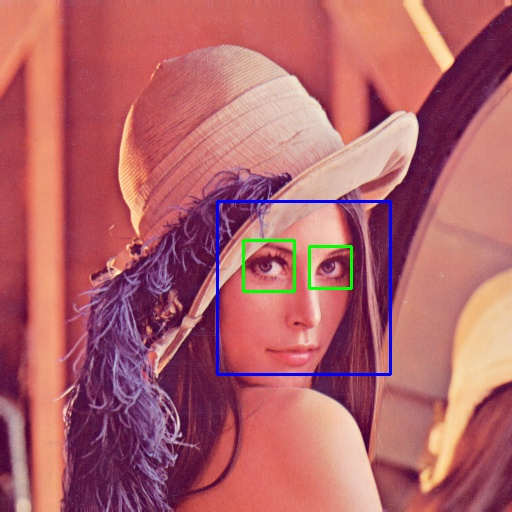
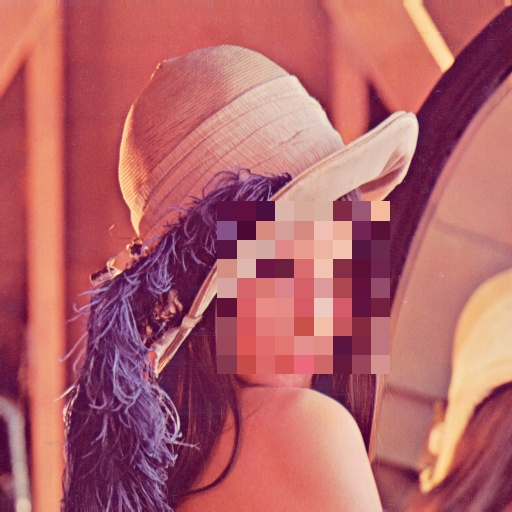
add scraping.py

Changed region(s): [[0.4062, 0.375, 0.7812, 0.75]]

diff --git a/scraping/scraping.py b/scraping/scraping.py
@@ -1,0 +1,103 @@
+import os
+import json
+import urllib
+import argparse
+import requests
+from bs4 import BeautifulSoup
+
+class Google(object):
+    def __init__(self):
+        self.url = "https://www.google.co.jp/search"
+        self.session = requests.session()
+        self.session.headers.update(
+            {
+                "User-Agent": "Mozilla/5.0 (X11; Linux x86_64; rv:10.0) \
+                    Gecko/20100101 Firefox/10.0"
+            }
+        )
+
+    def search(self, keyword, max):
+        print('searching \"{}\"...'.format(keyword))
+        query_generator = self._query_generator(keyword)
+        return self._image_search(query_generator, max)
+
+    def _query_generator(self, keyword):
+        page = 0
+        while page<1:
+            params = urllib.parse.urlencode(
+                {"q": keyword, "tbm": "isch", "ijn": str(page)}
+            )
+            yield self.url + "?" + params
+            page += 1
+
+    def _image_search(self, query_generator, max):
+        results = []
+        total = 0
+        while True:
+            # get url
+            html = self.session.get(next(query_generator)).text
+            soup = BeautifulSoup(html, "lxml")
+            elements = soup.select(".rg_meta.notranslate")
+            jsons = [json.loads(e.get_text()) for e in elements]
+            image_url_list = [js["ou"] for js in jsons]
+
+            # add search results
+            if not len(image_url_list):
+                print("-> No more images")
+                break
+            elif len(image_url_list) > max - total:
+                results += image_url_list[: max - total]
+                break
+            else:
+                results += image_url_list
+                total += len(image_url_list)
+
+        print("-> Found", str(len(results)), "images")
+        return results
+
+
+def input():
+    parser = argparse.ArgumentParser()
+    parser.add_argument("-t", "--target", help="target name", type=str, required=True)
+    parser.add_argument("-n", "--number", help="number of images", type=int, required=True)
+    parser.add_argument("-d", "--directory", help="download location", type=str, default="./imgs")
+    args = parser.parse_args()
+
+    imgs_dir = args.directory
+    target_name = args.target
+    number = args.number
+
+    os.makedirs(imgs_dir, exist_ok=True)
+    os.makedirs(os.path.join(imgs_dir, target_name), exist_ok=True)
+
+    return {'imgs_dir':imgs_dir, 'target_name':target_name, 'number':number}
+
+def download(results,imgs_dir,target_name):
+    download_errors = []
+    for i, url in enumerate(results):
+        print("-> Downloading image", str(i + 1).zfill(4), end=" ")
+        try:
+            urllib.request.urlretrieve(
+                url,
+                os.path.join(imgs_dir, target_name, str(i + 1).zfill(4) + ".jpg"),
+            )
+            print("successful")
+        except BaseException:
+            print("failed")
+            download_errors.append(i + 1)
+            continue
+
+    print("-" * 50)
+    print("Complete downloaded")
+    print("├─ Successful downloaded", len(results) - len(download_errors), "images")
+    print("└─ Failed to download", len(download_errors), "images", *download_errors)
+
+
+def main():
+    input_data = input()
+    google = Google()
+    results = google.search(input_data['target_name'], input_data['number'])
+    download(results,input_data['imgs_dir'],input_data['target_name'])
+
+if __name__ == '__main__':
+    main()

diff --git a/openCV/1/openCV.py b/openCV/1/openCV.py
@@ -1,7 +1,7 @@
 import cv2
 
-face_cascade_path = 'haarcascade_frontalface_default.xml'
-eye_cascade_path = 'haarcascade_eye.xml'
+face_cascade_path = 'haarcascades/haarcascade_frontalface_default.xml'
+eye_cascade_path = 'haarcascades/haarcascade_eye.xml'
 face_cascade = cv2.CascadeClassifier(face_cascade_path)
 eye_cascade = cv2.CascadeClassifier(eye_cascade_path)
 
@@ -9,21 +9,27 @@ src = cv2.imread('lena.jpg')
 src_gray = cv2.cvtColor(src, cv2.COLOR_BGR2GRAY)
 faces = face_cascade.detectMultiScale(src_gray)
 
-
-# 認識
-for x, y, w, h in faces:
-    cv2.rectangle(src, (x, y), (x + w, y + h), (255, 0, 0), 2)
-    face = src[y: y + h, x: x + w]
-    face_gray = src_gray[y: y + h, x: x + w]
-    eyes = eye_cascade.detectMultiScale(face_gray)
-    for (ex, ey, ew, eh) in eyes:
-        cv2.rectangle(face, (ex, ey), (ex + ew, ey + eh), (0, 255, 0), 2)
+# 矩形
+def rectangle():
+    for x, y, w, h in faces:
+        cv2.rectangle(src, (x, y), (x + w, y + h), (255, 0, 0), 2)
+        face = src[y: y + h, x: x + w]
+        face_gray = src_gray[y: y + h, x: x + w]
+        eyes = eye_cascade.detectMultiScale(face_gray)
+        for (ex, ey, ew, eh) in eyes:
+            cv2.rectangle(face, (ex, ey), (ex + ew, ey + eh), (0, 255, 0), 2)
 
 # モザイク
-# ratio = 0.05
-# for x, y, w, h in faces:
-#     small = cv2.resize(src[y: y + h, x: x + w], None, fx=ratio, fy=ratio, interpolation=cv2.INTER_NEAREST)
-#     src[y: y + h, x: x + w] = cv2.resize(small, (w, h), interpolation=cv2.INTER_NEAREST)
+def mosaic():
+    ratio = 0.05
+    for x, y, w, h in faces:
+        small = cv2.resize(src[y: y + h, x: x + w], None, fx=ratio, fy=ratio, interpolation=cv2.INTER_NEAREST)
+        src[y: y + h, x: x + w] = cv2.resize(small, (w, h), interpolation=cv2.INTER_NEAREST)
 
+def main():
+    # rectangle()
+    mosaic()
+    cv2.imwrite('processed.jpg', src)
 
-cv2.imwrite('processed.jpg', src)
+if __name__ == '__main__':
+    main()

diff --git a/openCV/2/temp.py b/openCV/2/temp.py
@@ -1,12 +1,17 @@
 import cv2
 import numpy as np
+import matplotlib.pyplot as plt
 
-img = cv2.imread('imgs/dog.jpg')
+img = cv2.imread('../imgs/dog.jpg')
 
 #画素値の取得
-px = img[100,100]
-print(px)
+# px = img[100,100]
+# print(px)
 
-# accessing only blue pixel
-blue = img[100,100,0]
-print(blue)
+
+# for i in range(100):
+#     for j in range(100):
+#         img[i,j] = [100,100,100]
+
+plt.imshow(img,"gray")
+plt.show()
